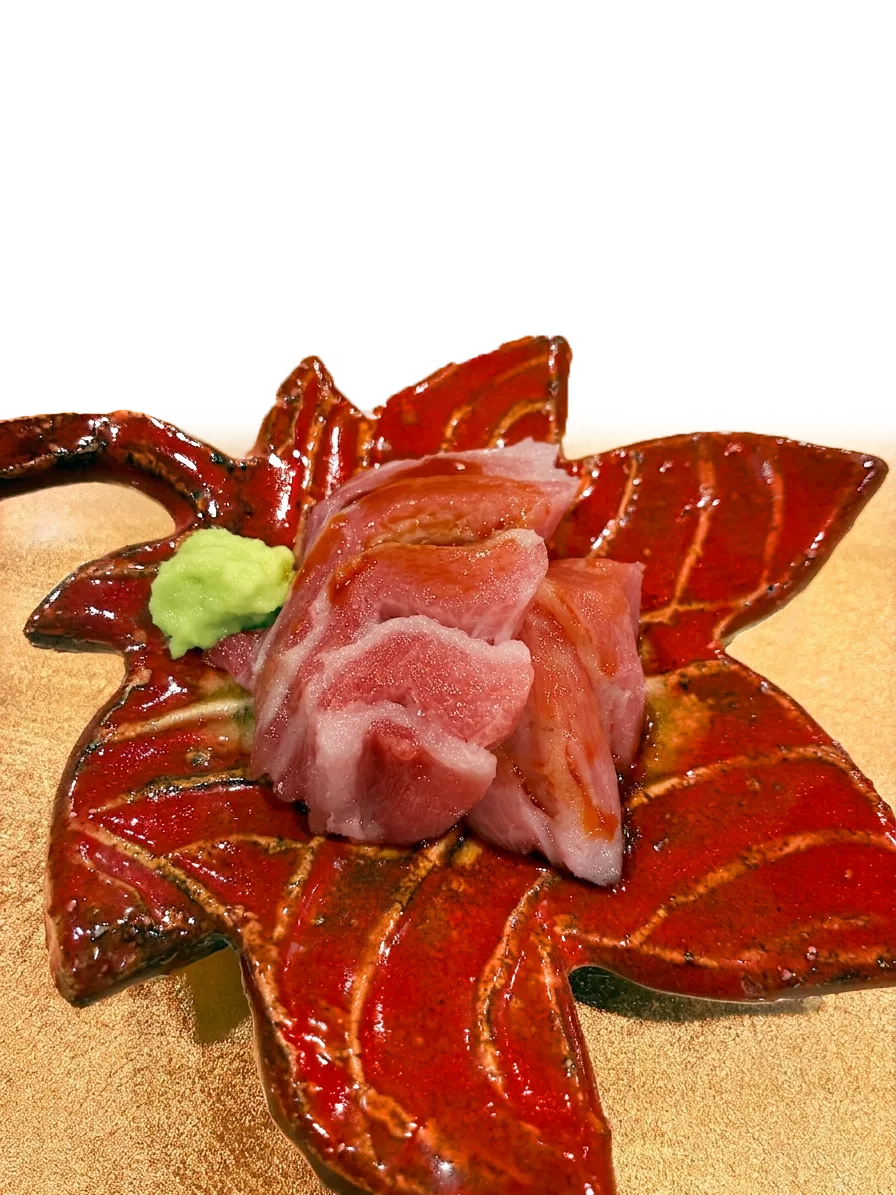
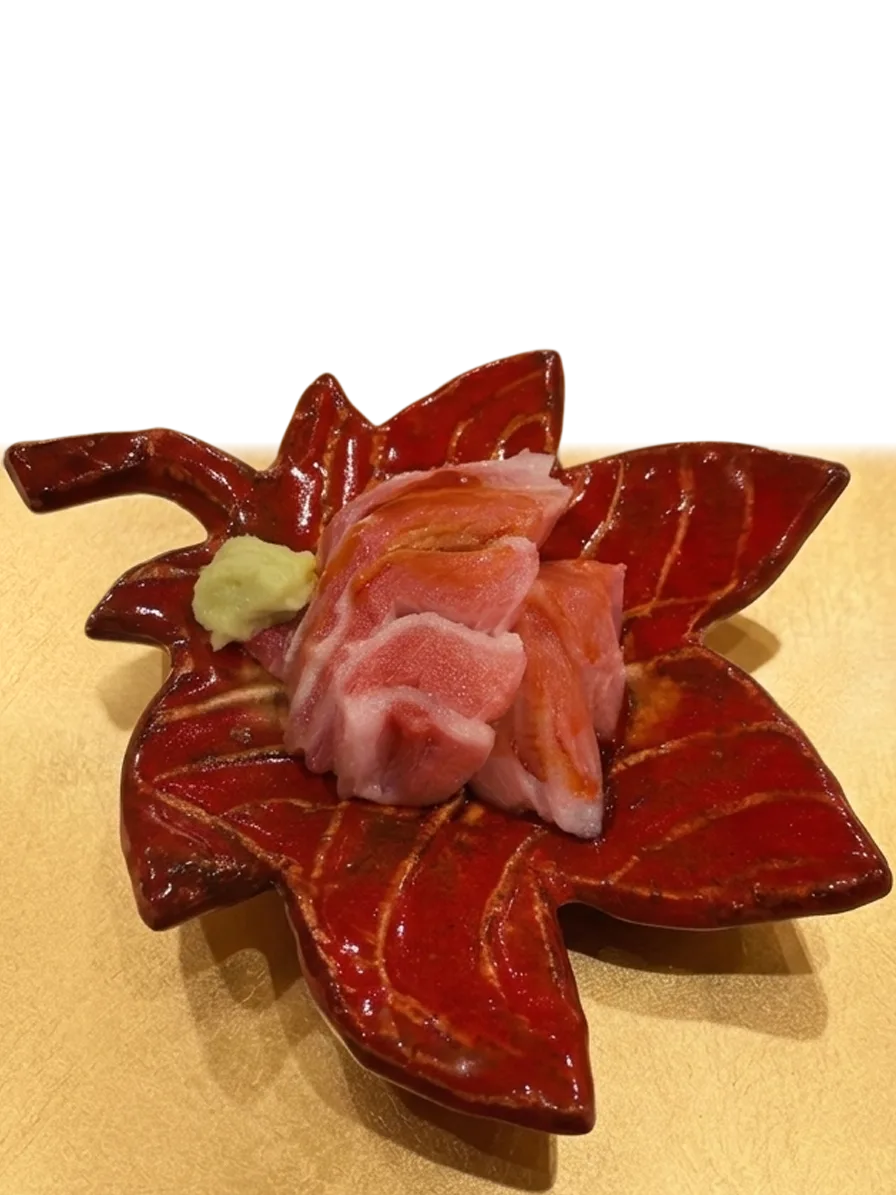
assets: ギャラリー2枚目・3枚目を差し替え（おしゃしん素材）
slide-2.png / sushi-photo-4.png → slider slide-2・slide-3。WebP再生成・キャッシュバンプ。
本番デプロイは未実施。

Made-with: Cursor

diff --git a/index.html b/index.html
@@ -160,8 +160,8 @@
             <div class="slide__track">
               <div class="slide__set">
                 <figure class="slide__item"><div class="slide__inner"><picture><source type="image/webp" media="(max-width: 767px)" srcset="./images/opt/slide-1-900w.webp?v=20260405"><img src="./images/slider/slide-1.png?v=20260405" width="896" height="1195" alt="おまかせの握り盛り合わせ" data-i18n-attrs="alt:slide_1_alt" loading="lazy" decoding="async" /></picture></div></figure>
-                <figure class="slide__item"><div class="slide__inner"><picture><source type="image/webp" media="(max-width: 767px)" srcset="./images/opt/slide-2-900w.webp?v=20260405"><img src="./images/slider/slide-2.png?v=20260405" width="896" height="1195" alt="季節の食材を用いた一皿" data-i18n-attrs="alt:slide_2_alt" loading="lazy" decoding="async" /></picture></div></figure>
-                <figure class="slide__item"><div class="slide__inner"><picture><source type="image/webp" media="(max-width: 767px)" srcset="./images/opt/slide-3-900w.webp?v=sushi-photo-4"><img src="./images/slider/slide-3.png?v=sushi-photo-4" width="896" height="1195" alt="職人の技を表現した一皿" data-i18n-attrs="alt:slide_3_alt" loading="lazy" decoding="async" /></picture></div></figure>
+                <figure class="slide__item"><div class="slide__inner"><picture><source type="image/webp" media="(max-width: 767px)" srcset="./images/opt/slide-2-900w.webp?v=20260405-oshasin2"><img src="./images/slider/slide-2.png?v=20260405-oshasin2" width="896" height="1195" alt="季節の食材を用いた一皿" data-i18n-attrs="alt:slide_2_alt" loading="lazy" decoding="async" /></picture></div></figure>
+                <figure class="slide__item"><div class="slide__inner"><picture><source type="image/webp" media="(max-width: 767px)" srcset="./images/opt/slide-3-900w.webp?v=20260405-oshasin3"><img src="./images/slider/slide-3.png?v=20260405-oshasin3" width="896" height="1195" alt="職人の技を表現した一皿" data-i18n-attrs="alt:slide_3_alt" loading="lazy" decoding="async" /></picture></div></figure>
                 <figure class="slide__item"><div class="slide__inner"><picture><source type="image/webp" media="(max-width: 767px)" srcset="./images/opt/sushi-photo-5-900w.webp?v=20260405"><img src="./images/photo/sushi-photo-5.png?v=20260405" width="896" height="1195" alt="雲丹とトリュフを添えた一皿" data-i18n-attrs="alt:slide_4_alt" loading="lazy" decoding="async" /></picture></div></figure>
               </div>
             </div>
